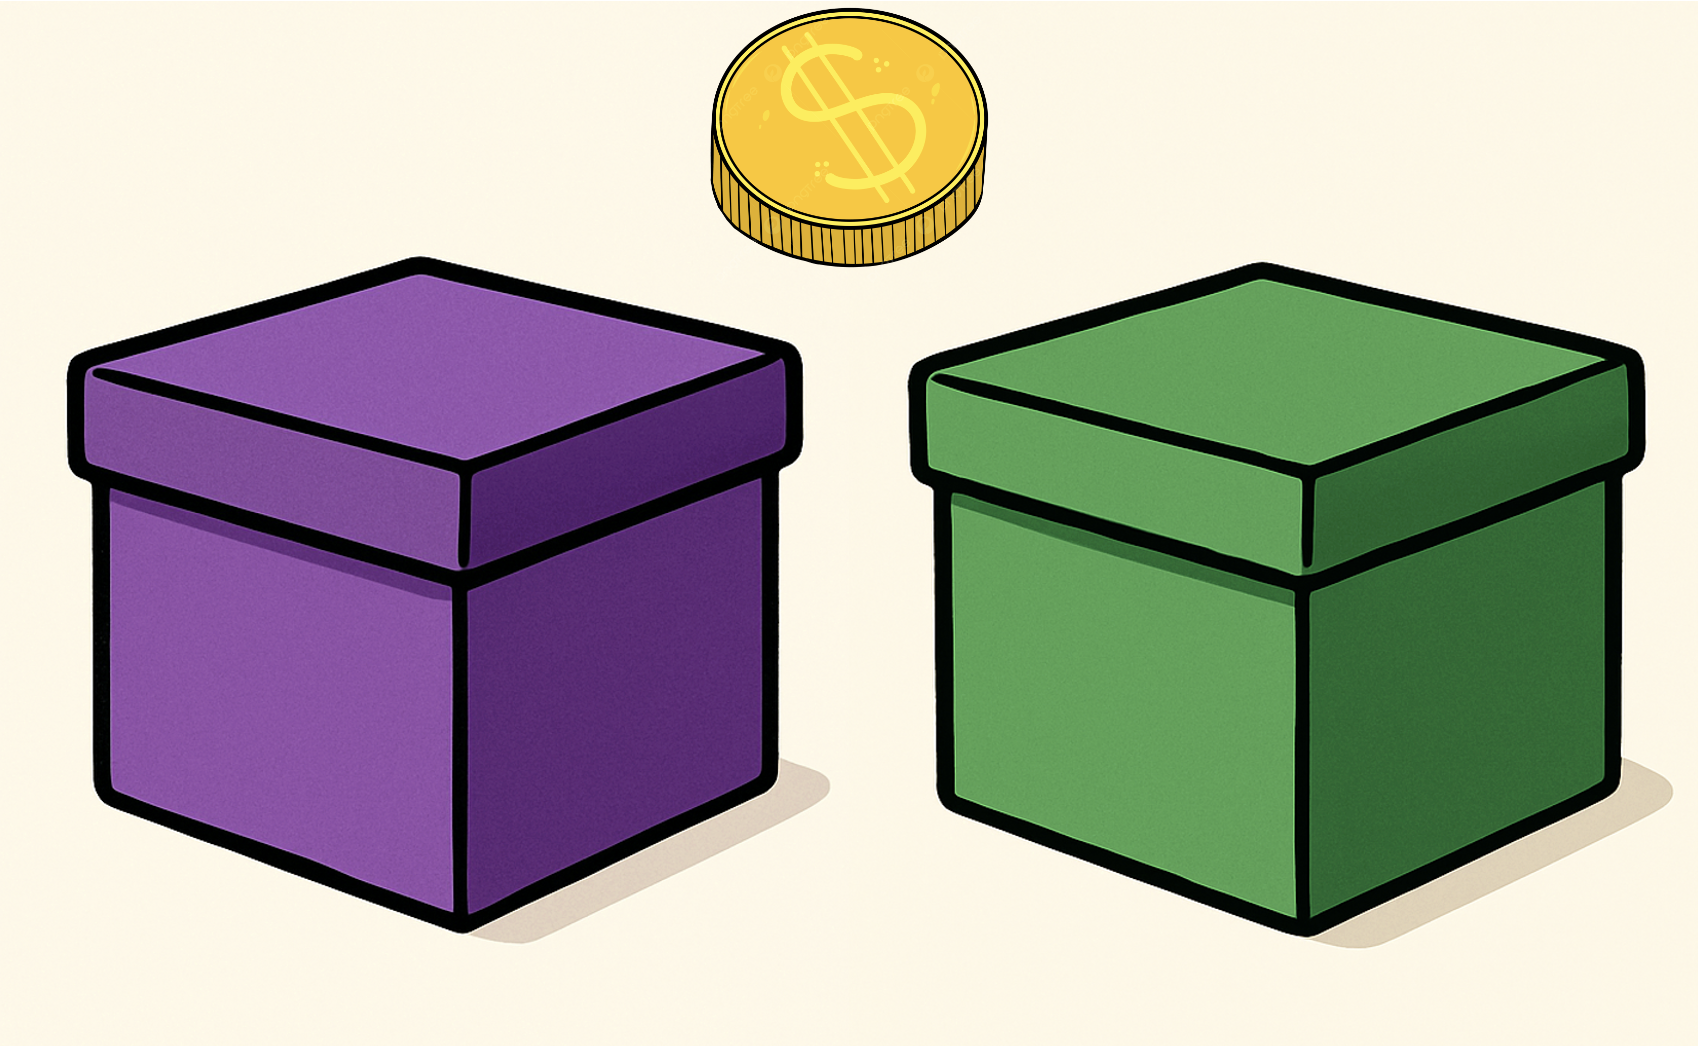
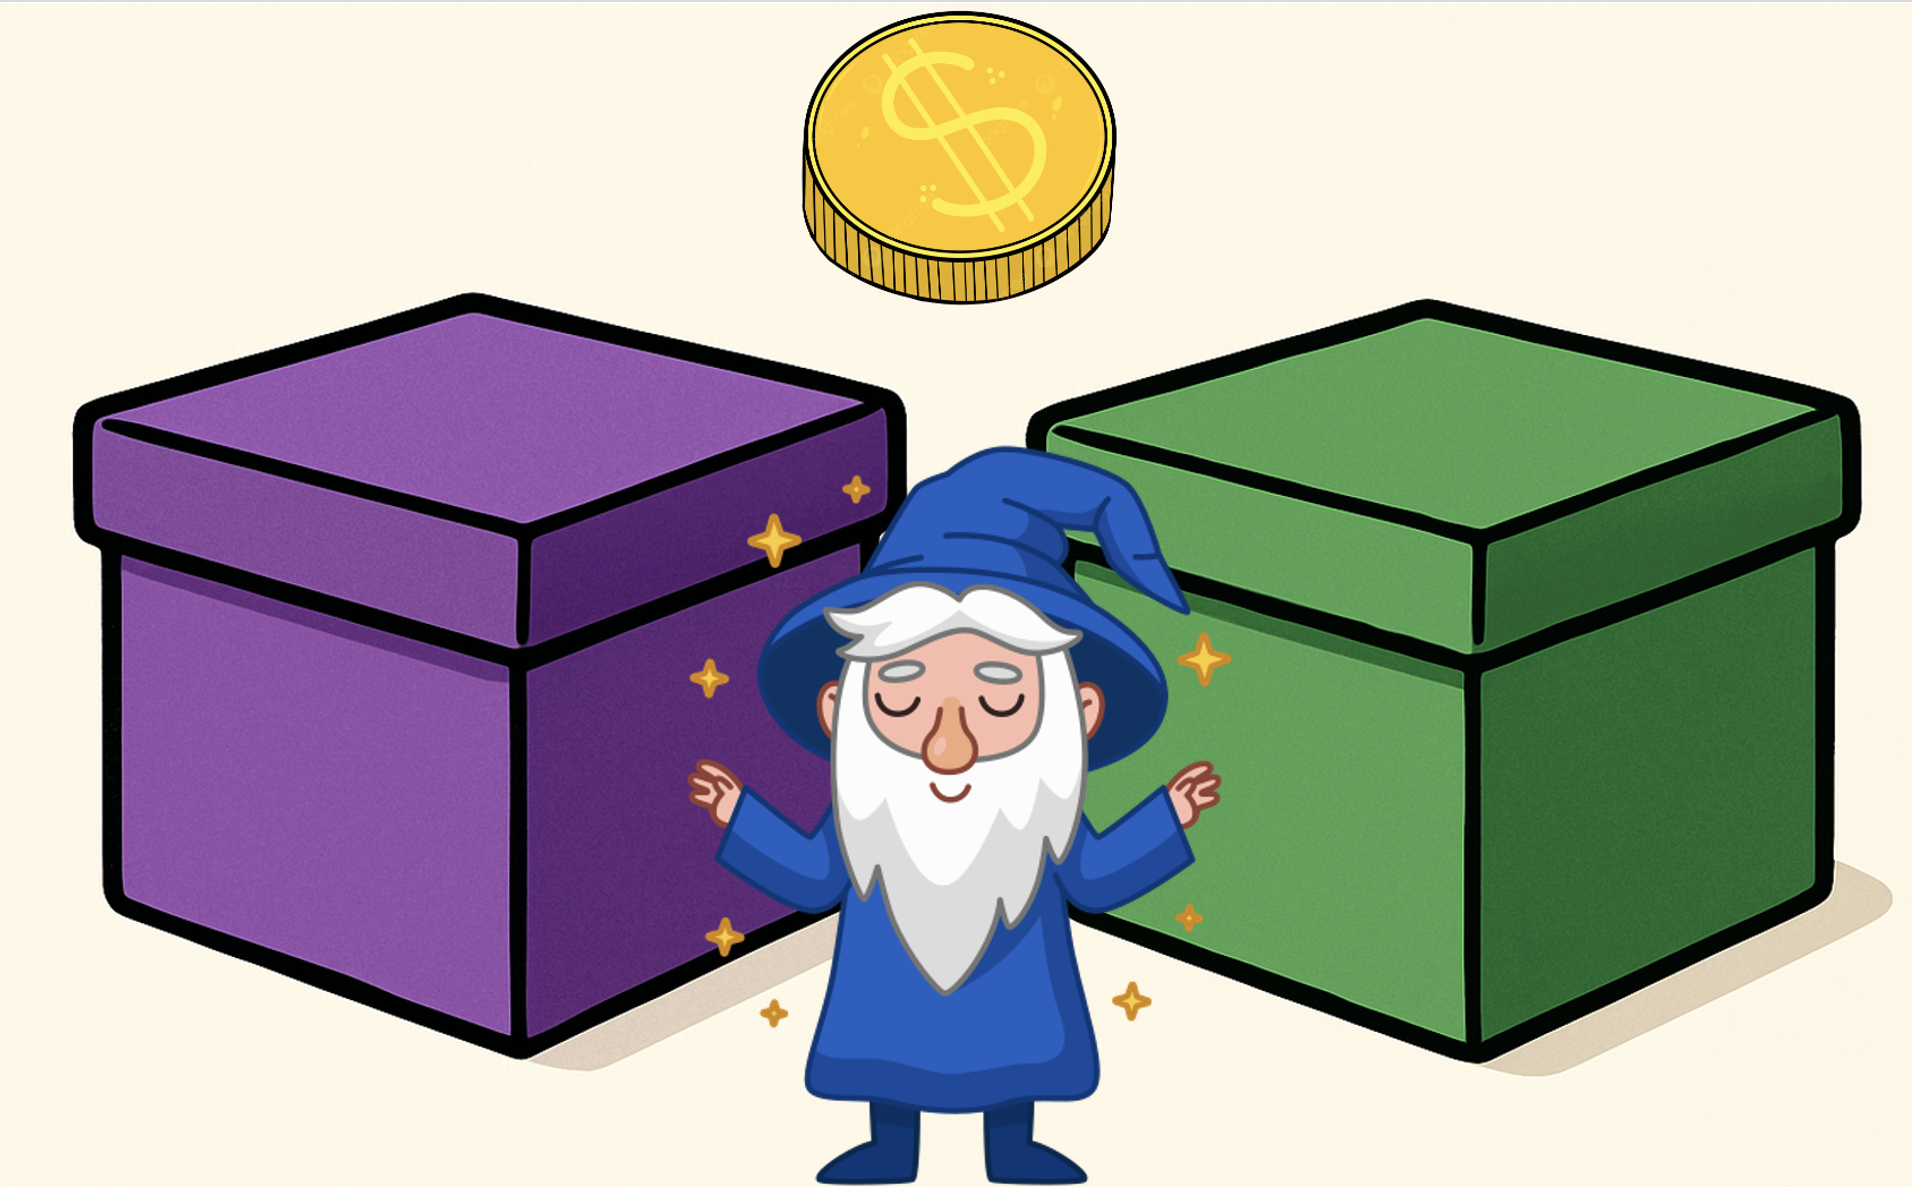
update

diff --git a/OVB0708_otb_adults.html b/OVB0708_otb_adults.html
@@ -435,7 +435,7 @@
 
  <div id="pretrial" class="hidden">
         <img src="https://github.com/ey242/OVB/raw/main/public/stim/coin_boxes.png" alt="Coin Boxes" style="width: 750px;">
-        <p>Look at these two boxes! A shiny coin is hidden in one of these two boxes. Your job is to find out which box it’s in so you can win it!</p>
+        <p>Look at these two boxes and meet this wizard! His name is One Box. One Box Wizard only likes to hide coins in the same box. Your job is to find out which box the coins are in so you can win them!</p>
         <p>Are you ready to play the game?</p>
         <button id="ready-button">Continue</button> <!-- Changed to Continue -->
       </div>
@@ -446,9 +446,9 @@
       <h3>How to Play</h3>
       <p>A shiny coin is hidden in one of these two boxes. Your job is to find out which box it’s in so you can win it!</p>
       <ol class="how-to-play-list">
-        <li><strong>Peek to Learn</strong>: Click on the <img src="https://github.com/ey242/OVB/raw/main/public/pics/Glasses1.png" alt="Glasses icon"> button below to peek and see which box hides the coin. You can peek as many times as you like. (In this practice game, the coin stays in the same box every time.)</li>
-        <li><strong>Make Your Guess</strong>: When you think you know where the coin is, click on that box to guess. Once you start guessing, you can’t peek again.</li>
-        <li><strong>See Your Score</strong>: At the end of this practice, we’ll tell you how many coins you found.</li>
+        <li><strong>Peek to Learn</strong>: Click on the <img src="https://github.com/ey242/OVB/raw/main/public/pics/Glasses1.png" alt="Glasses icon"> button below to peek and see which box hides the coin. You can peek as many times as you like. But remember, One Box Wizard only hides coins in the same box!</li>
+        <li><strong>Make Your Guess</strong>: When you think you know where the coins go, click on that box to guess. Once you start guessing, you can’t peek again.</li>
+        <li><strong>See Your Score</strong>: At the end of this game, we’ll count how many coins you found.</li>
       </ol>
       <p>Are you ready? Click the glasses to start peeking! <br>Remember, you can click it as much as you want!</p>
       <div id="practice-observation-outcomes-display" class="observation-outcome-grid"></div>
@@ -656,7 +656,7 @@
       // --- Global Variables ---
       const MAX_OBSERVATIONS = 104; // Upper limit for observations for both practice and main sessions
       const BETTING_ROUNDS = 10;
-      const PRACTICE_ROUNDS = 10; // Number of rounds for practice betting
+      const PRACTICE_ROUNDS = 4; // Number of rounds for practice betting
 
       let participantInfo = {};
       let sessionData = {
@@ -1091,7 +1091,7 @@
           imageElement.alt = `${characterDisplayName} Doors`;
 
           text1.textContent = `Now we have a ${characterDisplayName}! Look at these two doors. The ${characterDisplayName} will hide behind one of them each time.`;
-          text2.textContent = `Unlike the coin in the practice game, the ${characterDisplayName} has ${character === 'elf' ? 'its' : 'her'} very own special pattern for hiding so the hiding door can change. ${character === 'elf' ? 'It' : 'She'} will give you a coin every time you guess the right door ${character === 'elf' ? 'it' : 'she'} hides behind.`;
+          text2.textContent = `Unlike the One Box Wizard, the ${characterDisplayName} has ${character === 'elf' ? 'its' : 'her'} very own special pattern for hiding so the hiding door can change. ${character === 'elf' ? 'It' : 'She'} will give you a coin every time you guess the right door ${character === 'elf' ? 'it' : 'she'} hides behind.`;
           text3.textContent = `Your job is to win as many coins as you can! To do this, you'll first get to watch and see which door the ${characterDisplayName} is behind and learn how ${character === 'elf' ? 'it' : 'she'} hides.`;
           text4.textContent = `When you're done watching, you'll guess which door you think the ${characterDisplayName} is behind to try and win a coin! Once you start guessing, you can't go back to watching.`;
           text5.textContent = `You won't find out which door actually hid the ${characterDisplayName} until you finish all your guesses, and then we'll tell you how many coins you won. Each coin you win = $0.01 bonus payment. Are you ready to meet the ${characterDisplayName} and win coins?`;

diff --git a/OVB0708_otb.html b/OVB0708_otb.html
@@ -320,8 +320,7 @@
 
       <div id="pretrial" class="hidden">
         <img src="https://github.com/ey242/OVB/raw/main/public/stim/coin_boxes.png" alt="Coin Boxes" style="width: 750px;">
-         <p>Let’s first play a pretend game to get ready for the real one! </p>
-        <p>Look at these two boxes! A shiny coin is hidden in one of these two boxes. Your job is to find out which box it’s in so you can win it!</p>
+        <p>Look at these two boxes and meet this wizard! His name is One Box. One Box Wizard only likes to hide coins in the same box. Your job is to find out which box the coins are in so you can win them!</p>
         <p>Are you ready to play the game?</p>
         <button id="ready-button">Continue</button> <!-- Changed to Continue -->
       </div>
@@ -332,9 +331,9 @@
       <h3>How to Play</h3>
       <p>A shiny coin is hidden in one of these two boxes. Your job is to find out which box it’s in so you can win it!</p>
       <ol class="how-to-play-list">
-        <li><strong>Peek to Learn</strong>: First, you can look and see which box the coin is hiding. Just say peek and I’ll press this glasses button <img src="https://github.com/ey242/OVB/raw/main/public/pics/Glasses1.png" alt="Glasses icon">. You can peek and watch as many times as you want. In this pretend game, the coin stays in the same place. But in the real game, it will change!</li>
-        <li><strong>Make Your Guess</strong>: When you think you know where the coin is, we’ll press the box to guess. But remember, once you start guessing, you can’t look again!</li>
-        <li><strong>See Your Score</strong>: After the pretend game, we’ll see how many coins you got.</li>
+        <li><strong>Peek to Learn</strong>: First, you can look and see which box the coin is hiding. Just say peek and I’ll press this glasses button <img src="https://github.com/ey242/OVB/raw/main/public/pics/Glasses1.png" alt="Glasses icon">. You can peek as many times as you want. But remember, One Box Wizard only hides coins in the same box!</li>
+        <li><strong>Make Your Guess</strong>: When you think you know where the coins go, we’ll press the box to guess. But remember, once you start guessing, you can’t peek again!</li>
+        <li><strong>See Your Score</strong>: At the end of this game, we’ll count how many coins you found.</li>
       </ol>
       <p>Are you ready? Click the glasses to start peeking! <br>Remember, you can click the glasses as much as you want!</p>
       <div id="practice-observation-outcomes-display" class="observation-outcome-grid"></div>
@@ -543,7 +542,7 @@
       // --- Global Variables ---
       const MAX_OBSERVATIONS = 104; // Upper limit for observations for both practice and main sessions
       const BETTING_ROUNDS = 10;
-      const PRACTICE_ROUNDS = 10; // Number of rounds for practice betting
+      const PRACTICE_ROUNDS = 4; // Number of rounds for practice betting
 
       let participantInfo = {};
       let sessionData = {
